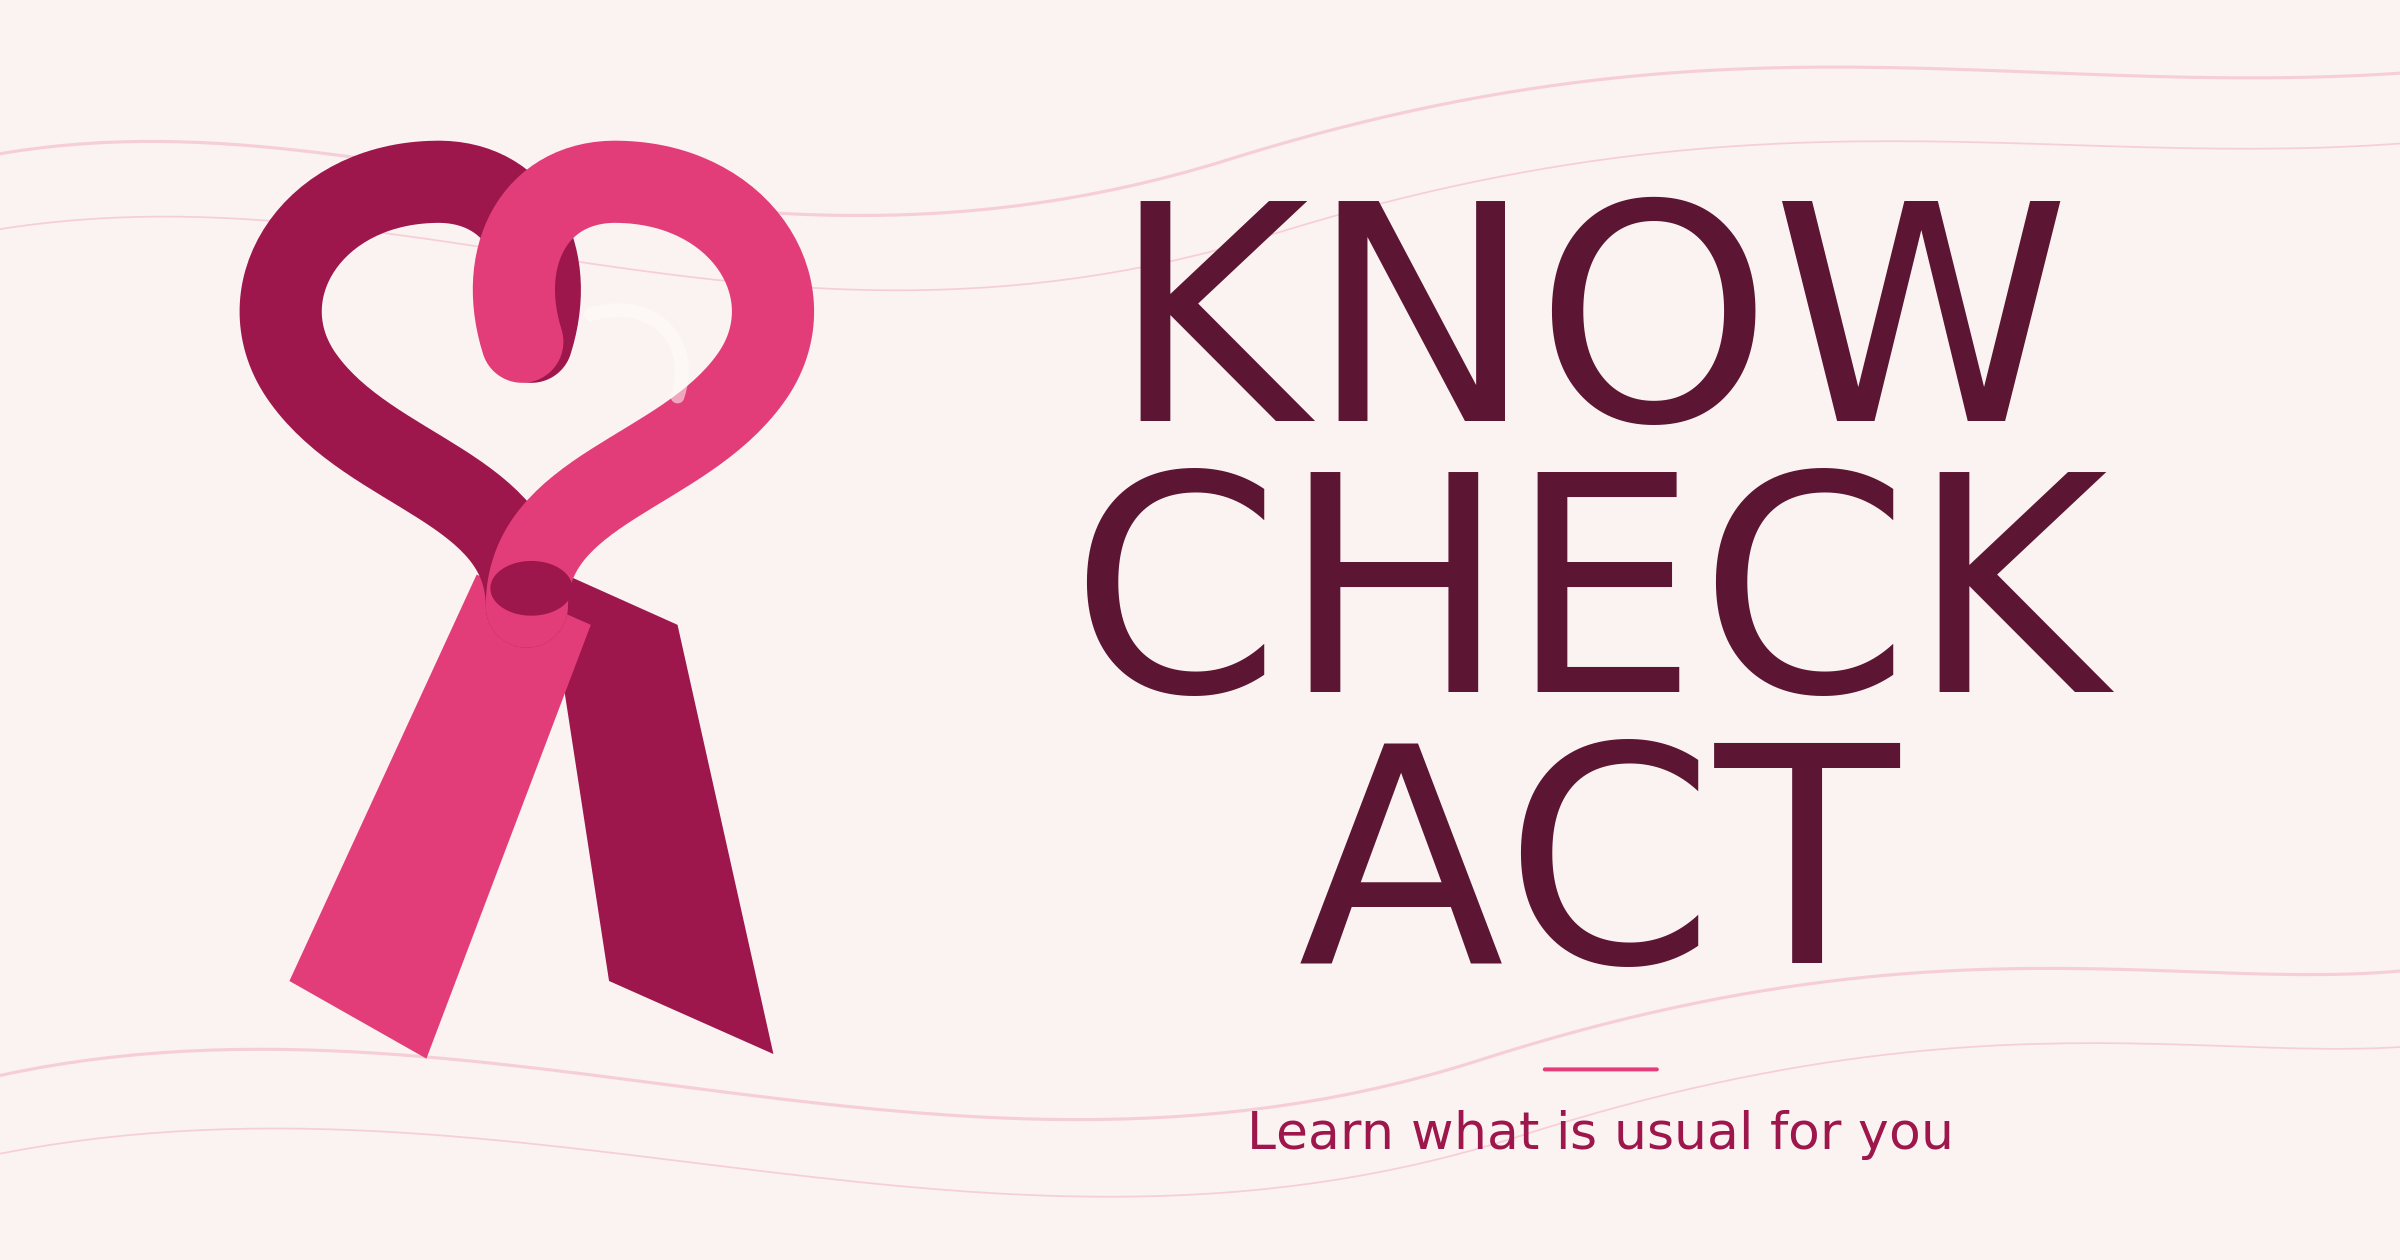
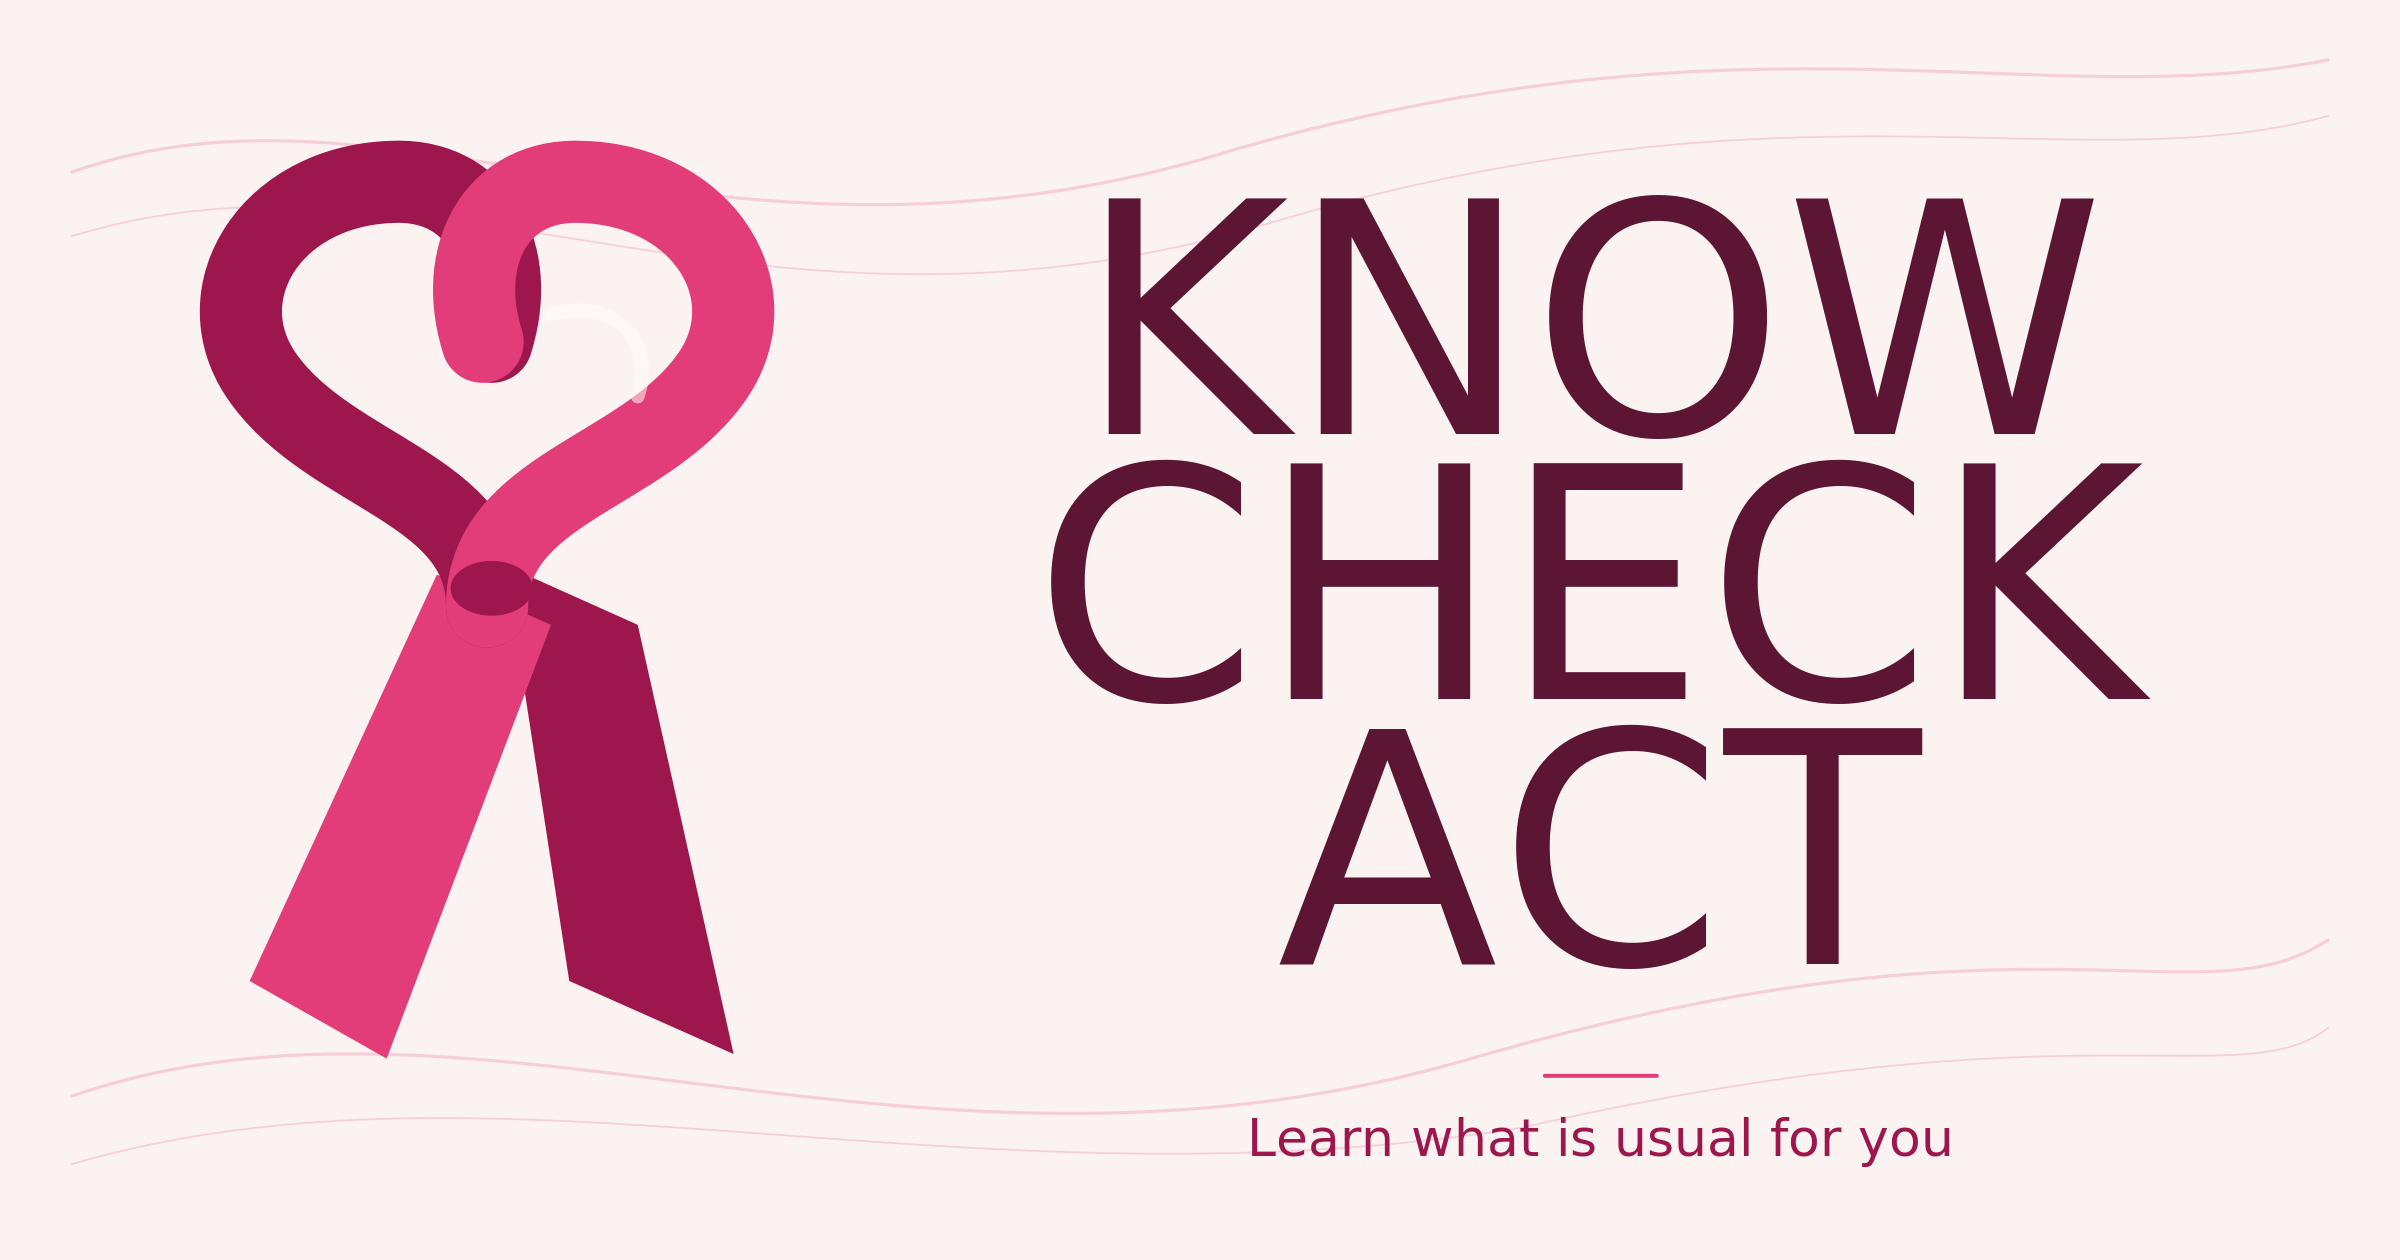
Export from Grok

diff --git a/.grok/brand/render_card.py b/.grok/brand/render_card.py
@@ -41,7 +41,7 @@ def main() -> None:
     # Largest word sets the lockup width. Aim for a little over half the frame.
     probe = ImageFont.truetype(str(FRAUNCES), 100)
     check_w = probe.getlength("CHECK")
-    target = 560  # ~47–55% once optical; tuned after the side ribbon
+    target = 600  # half the 1200 frame; ribbon sits beside, not under, the words
     title_size = 100 * (target / check_w)
     title_size = round(title_size, 1)
     title_font = ImageFont.truetype(str(FRAUNCES), title_size)
@@ -49,7 +49,7 @@ def main() -> None:
     word_w = {w: title_font.getlength(w) for w in words}
     ascent, descent = title_font.getmetrics()
     # Caps sit well above the baseline; use a tight but open leading.
-    line_gap = title_size * 0.90
+    line_gap = title_size * 0.82
     stack_h = ascent + 2 * line_gap + descent
 
     tag_size = 26
@@ -121,10 +121,10 @@ def main() -> None:
 
     silk = f"""
     <g fill="none" stroke="{RIBBON}" stroke-linecap="round" stroke-opacity="0.20">
-      <path d="M-60 92C160 18 340 168 620 78C900 -8 1040 64 1280 28" stroke-width="1.6"/>
-      <path d="M-60 128C180 58 360 204 640 116C920 30 1060 100 1280 62" stroke-width="0.9"/>
-      <path d="M-40 548C220 470 460 620 740 530C1020 440 1140 520 1280 468" stroke-width="1.6"/>
-      <path d="M-40 586C240 512 480 658 760 568C1040 478 1160 556 1280 506" stroke-width="0.9"/>
+      <path d="M36 86C200 28 360 156 620 74C880 0 1020 58 1164 30" stroke-width="1.6"/>
+      <path d="M36 118C220 62 380 190 640 110C900 34 1040 92 1164 58" stroke-width="0.9"/>
+      <path d="M36 548C240 478 460 612 740 528C1020 448 1100 512 1164 470" stroke-width="1.6"/>
+      <path d="M36 582C250 520 480 608 760 564C1040 500 1120 548 1164 514" stroke-width="0.9"/>
     </g>
     """
 
